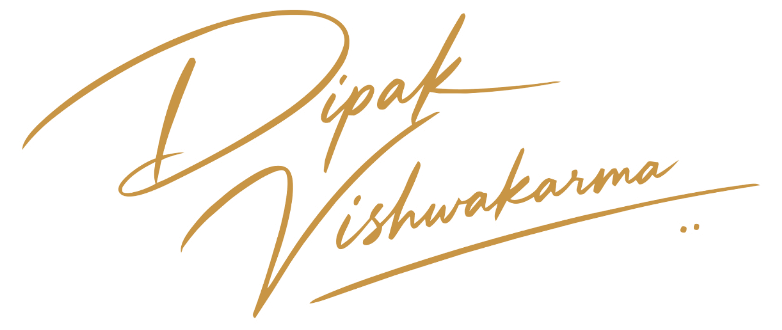
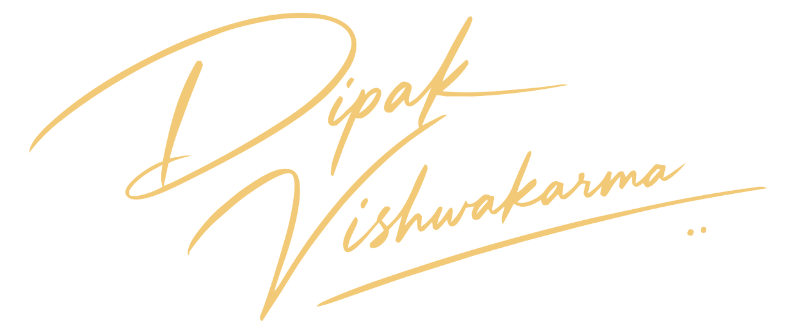
fix(ui): lower header signature, hide hamburger on desktop, and enhance footer gold signature

diff --git a/src/features/dipak-hero/dipak-hero.module.css b/src/features/dipak-hero/dipak-hero.module.css
@@ -57,10 +57,11 @@
   display: flex;
   align-items: center;
   justify-content: space-between;
-  height: clamp(3.2rem, 5.5vh, 4.2rem);
+  height: clamp(3.8rem, 6.5vh, 4.8rem);
   width: 100%;
   max-width: 110rem;
   margin: 0 auto;
+  padding-top: 0.65rem;
   flex: 0 0 auto;
   animation: wordmarkFadeIn 450ms cubic-bezier(0.16, 1, 0.3, 1) both;
 }
@@ -69,6 +70,8 @@
   display: inline-flex;
   align-items: center;
   text-decoration: none;
+  padding-top: 0.5rem;
+  padding-bottom: 0.2rem;
   transition: opacity 200ms ease, transform 200ms ease;
 }
 
@@ -78,8 +81,9 @@
 }
 
 .headerSignatureImg {
-  width: clamp(150px, 16vw, 195px);
+  width: clamp(140px, 14vw, 175px);
   height: auto;
+  max-height: 48px;
   object-fit: contain;
 }
 
@@ -144,6 +148,10 @@
   align-items: center;
 }
 
+.mobileNavContainer {
+  display: none;
+}
+
 /* Hamburger button: hidden on desktop when desktopNav is present */
 .hamburgerBtn {
   display: none;
@@ -174,17 +182,18 @@
 .mobileDrawer {
   position: fixed;
   inset: 0;
-  z-index: 100;
-  background: #f4f1ea;
+  z-index: 99999;
+  background: #f4f1ea !important;
   display: flex;
   flex-direction: column;
   justify-content: space-between;
-  padding: max(1.2rem, env(safe-area-inset-top)) 1.5rem max(1.5rem, env(safe-area-inset-bottom));
+  padding: max(1.5rem, env(safe-area-inset-top)) 1.5rem max(1.5rem, env(safe-area-inset-bottom));
   opacity: 0;
   visibility: hidden;
-  transform: translateY(-12px);
+  transform: translateY(-8px);
   transition: opacity 200ms ease, transform 200ms ease, visibility 200ms ease;
   pointer-events: none;
+  box-shadow: 0 10px 40px rgba(0, 0, 0, 0.2);
 }
 
 .mobileDrawerOpen {

diff --git a/src/features/dipak-hero/MobileNav.tsx b/src/features/dipak-hero/MobileNav.tsx
@@ -68,18 +68,16 @@ export function MobileNav({
       {/* Editorial Menu Toggle Button */}
       <button
         ref={openBtnRef}
-        className={styles.mobileMenuBtn}
-        aria-label="Open navigation menu"
+        className={styles.hamburgerBtn}
+        aria-label={isOpen ? "Close navigation menu" : "Open navigation menu"}
         aria-expanded={isOpen}
         aria-controls="mobile-primary-navigation"
         type="button"
         onClick={handleOpen}
       >
-        <span className={styles.hamburgerLabel}>MENU</span>
-        <span className={styles.hamburgerBox} aria-hidden="true">
-          <span className={styles.hamburgerLine} />
-          <span className={styles.hamburgerLine} />
-        </span>
+        <span className={styles.hamburgerLine} />
+        <span className={styles.hamburgerLine} />
+        <span className={styles.hamburgerLine} />
       </button>
 
       {/* Full-Screen Editorial Mobile Drawer */}

diff --git a/src/features/site-chrome/site-chrome.module.css b/src/features/site-chrome/site-chrome.module.css
@@ -50,6 +50,8 @@
   display: inline-flex;
   align-items: center;
   text-decoration: none;
+  padding-top: 0.5rem;
+  padding-bottom: 0.2rem;
   transition: opacity var(--dur-fast) var(--ease-out-editorial), transform var(--dur-fast) var(--ease-out-editorial);
 }
 
@@ -59,8 +61,9 @@
 }
 
 .headerSignatureImg {
-  width: clamp(145px, 15vw, 190px);
+  width: clamp(140px, 14vw, 175px);
   height: auto;
+  max-height: 48px;
   object-fit: contain;
 }
 
@@ -68,7 +71,7 @@
   display: inline-flex;
   align-items: center;
   text-decoration: none;
-  margin-bottom: 0.2rem;
+  margin-bottom: 0.4rem;
   transition: opacity var(--dur-fast) var(--ease-out-editorial), transform var(--dur-fast) var(--ease-out-editorial);
 }
 
@@ -78,9 +81,10 @@
 }
 
 .footerSignatureImg {
-  width: clamp(170px, 18vw, 230px);
+  width: clamp(190px, 20vw, 250px);
   height: auto;
   object-fit: contain;
+  display: block;
 }
 
 .wordmark,
